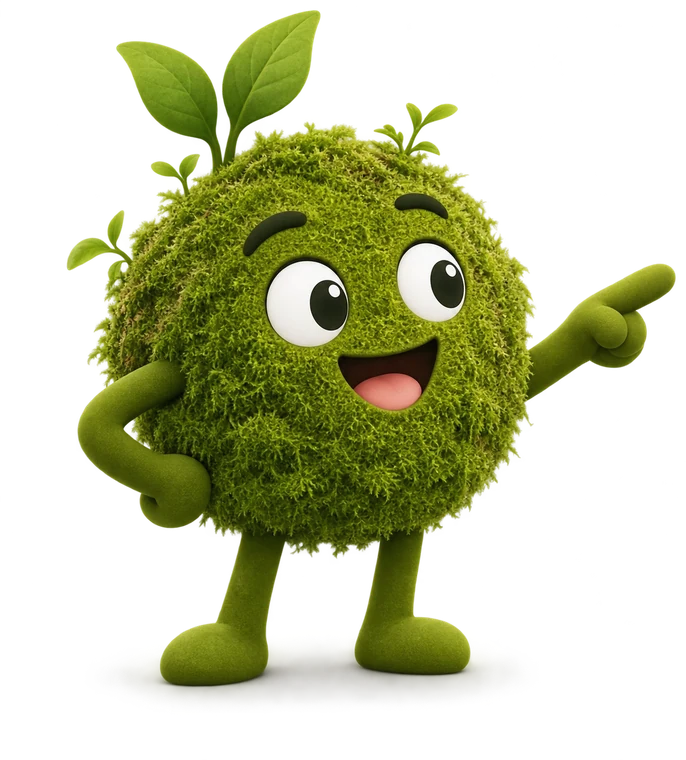
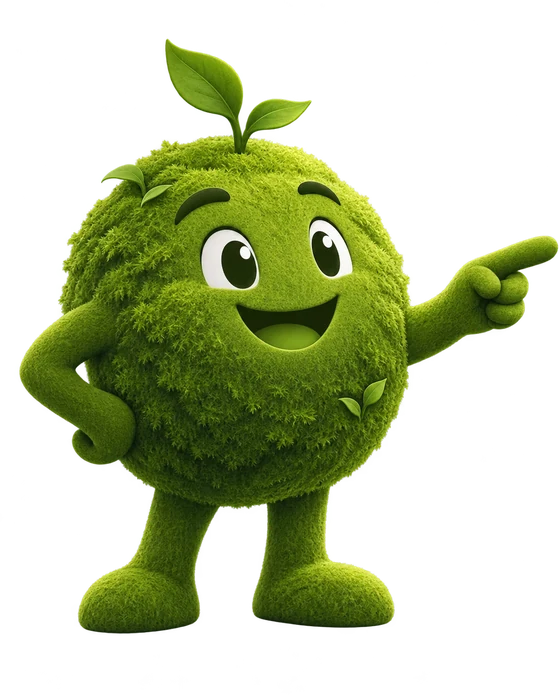
Actiebanner: nieuw mosmannetje en alles compacter
Claude-Session: https://claude.ai/code/session_0179GQ2GPn8jESi4dhGgZKdr

diff --git a/components/site-actie.tsx b/components/site-actie.tsx
@@ -13,48 +13,48 @@ export default function SiteActie() {
     <section className="sa-sectie" aria-labelledby="sa-titel">
       <style>{`
         .sa-sectie { padding: 48px 0 96px; }
-        .sa-wrap { max-width: 1320px; margin: 0 auto; padding: 0 20px; }
-        .sa-kaart { display: grid; grid-template-columns: 250px minmax(0, 1fr) 270px; align-items: center; gap: 40px;
-          padding: 64px 56px 64px 64px; border-radius: 28px; background: #F2F8EC;
+        .sa-wrap { max-width: 1120px; margin: 0 auto; padding: 0 20px; }
+        .sa-kaart { display: grid; grid-template-columns: 180px minmax(0, 1fr) 240px; align-items: center; gap: 36px;
+          padding: 40px 44px 40px 48px; border-radius: 24px; background: #F2F8EC;
           box-shadow: 0 2px 16px rgba(0,0,0,0.04), 0 30px 60px -40px rgba(30,51,36,0.3); }
         .sa-foto { position: relative; display: flex; justify-content: center; }
-        .sa-foto img { width: 100%; max-width: 250px; height: auto; display: block; filter: drop-shadow(0 18px 22px rgba(30,51,36,0.18)); }
-        .sa-oog { margin: 0 0 10px; font: 700 13px var(--font-montserrat), system-ui, sans-serif; letter-spacing: .14em; text-transform: uppercase; color: #7AB54E; }
+        .sa-foto img { width: 100%; max-width: 180px; height: auto; display: block; filter: drop-shadow(0 18px 22px rgba(30,51,36,0.18)); }
+        .sa-oog { margin: 0 0 8px; font: 700 12px var(--font-montserrat), system-ui, sans-serif; letter-spacing: .14em; text-transform: uppercase; color: #7AB54E; }
         .sa-titel { margin: 0; font-family: var(--font-montserrat), system-ui, sans-serif; font-weight: 800; letter-spacing: -0.035em; line-height: 1; color: #1A1A1A; white-space: nowrap; }
-        .sa-titel .pct { font-size: clamp(3.4rem, 5.4vw, 5rem); color: #9BCB6C; letter-spacing: -0.05em; }
-        .sa-titel .kort { font-size: clamp(1.8rem, 2.8vw, 2.7rem); margin-left: 12px; }
-        .sa-sub { margin: 12px 0 0; white-space: nowrap; font: 700 clamp(1rem, 1.3vw, 1.1rem) var(--font-montserrat), system-ui, sans-serif; letter-spacing: -0.01em; color: #1A1A1A; }
-        .sa-prijs { background: #FFFFFF; border-radius: 22px; padding: 36px 32px 32px; text-align: center;
+        .sa-titel .pct { font-size: clamp(2.8rem, 4.2vw, 3.9rem); color: #9BCB6C; letter-spacing: -0.05em; }
+        .sa-titel .kort { font-size: clamp(1.5rem, 2.2vw, 2.1rem); margin-left: 10px; }
+        .sa-sub { margin: 10px 0 0; white-space: nowrap; font: 700 clamp(0.95rem, 1.2vw, 1.02rem) var(--font-montserrat), system-ui, sans-serif; letter-spacing: -0.01em; color: #1A1A1A; }
+        .sa-prijs { background: #FFFFFF; border-radius: 20px; padding: 28px 26px 26px; text-align: center;
           box-shadow: 0 2px 16px rgba(0,0,0,0.07), 0 24px 48px -28px rgba(30,51,36,0.35); }
-        .sa-prijs h3 { margin: 0; letter-spacing: .14em; text-transform: uppercase; color: #7AB54E !important; font: 800 13px var(--font-montserrat), system-ui, sans-serif; color: #1A1A1A; }
-        .sa-gratis-k { margin: 6px 0 22px; font: 700 17px var(--font-montserrat), system-ui, sans-serif; color: #1A1A1A; }
-        .sa-gratis { margin: 10px 0 0; font: 800 64px var(--font-montserrat), system-ui, sans-serif; letter-spacing: -0.04em; line-height: 1; color: #1A1A1A; }
-        .sa-knop { display: flex; align-items: center; justify-content: center; width: 100%; height: 52px; border: 0; cursor: pointer; border-radius: 10px; background: #9BCB6C; color: #FFFFFF;
-          text-decoration: none; font: 700 16px var(--font-montserrat), system-ui, sans-serif;
+        .sa-prijs h3 { margin: 0; letter-spacing: .14em; text-transform: uppercase; color: #7AB54E !important; font: 800 12px var(--font-montserrat), system-ui, sans-serif; color: #1A1A1A; }
+        .sa-gratis-k { margin: 6px 0 18px; font: 700 15px var(--font-montserrat), system-ui, sans-serif; color: #1A1A1A; }
+        .sa-gratis { margin: 8px 0 0; font: 800 50px var(--font-montserrat), system-ui, sans-serif; letter-spacing: -0.04em; line-height: 1; color: #1A1A1A; }
+        .sa-knop { display: flex; align-items: center; justify-content: center; width: 100%; height: 46px; border: 0; cursor: pointer; border-radius: 10px; background: #9BCB6C; color: #FFFFFF;
+          text-decoration: none; font: 700 15px var(--font-montserrat), system-ui, sans-serif;
           box-shadow: 0 10px 22px -12px rgba(122,181,78,0.9); transition: background-color .2s ease, transform .15s ease; }
         .sa-knop:hover { background: #7AB54E; }
         .sa-knop:active { transform: translateY(1px); }
         .sa-knop:focus-visible { outline: 2px solid #1A1A1A; outline-offset: 3px; }
         @media (max-width: 1100px) {
-          .sa-kaart { grid-template-columns: 200px minmax(0, 1fr); padding: 44px 40px; gap: 40px; }
-          .sa-prijs { grid-column: 1 / -1; max-width: 420px; justify-self: center; width: 100%; }
+          .sa-kaart { grid-template-columns: 160px minmax(0, 1fr); padding: 36px 32px; gap: 32px; }
+          .sa-prijs { grid-column: 1 / -1; max-width: 360px; justify-self: center; width: 100%; }
         }
         @media (max-width: 680px) {
           .sa-sub { white-space: normal; }
           .sa-punt { display: none; }
           .sa-datum { display: block; margin-top: 4px; }
           .sa-sectie { padding: 8px 0 56px; }
-          .sa-kaart { grid-template-columns: minmax(0, 1fr); padding: 36px 20px 26px; gap: 30px; text-align: center; }
-          .sa-foto img { max-width: 170px; }
+          .sa-kaart { grid-template-columns: minmax(0, 1fr); padding: 30px 20px 22px; gap: 24px; text-align: center; }
+          .sa-foto img { max-width: 130px; }
           .sa-titel .kort { margin-left: 8px; }
         }
-        @media (max-width: 380px) { .sa-titel .pct { font-size: 3rem; } .sa-titel .kort { font-size: 1.6rem; } }
+        @media (max-width: 380px) { .sa-titel .pct { font-size: 2.5rem; } .sa-titel .kort { font-size: 1.35rem; } }
       `}</style>
       <div className="sa-wrap">
         <div className="sa-kaart">
           <div className="sa-foto">
             {/* eslint-disable-next-line @next/next/no-img-element */}
-            <img src="/images/mos-mascotte.webp" width={686} height={760} alt="Vrolijk mosmannetje dat naar het aanbod wijst" loading="lazy" decoding="async" />
+            <img src="/images/mos-mascotte.webp" width={560} height={700} alt="Vrolijk mosmannetje dat naar het aanbod wijst" loading="lazy" decoding="async" />
           </div>
 
           <div>
